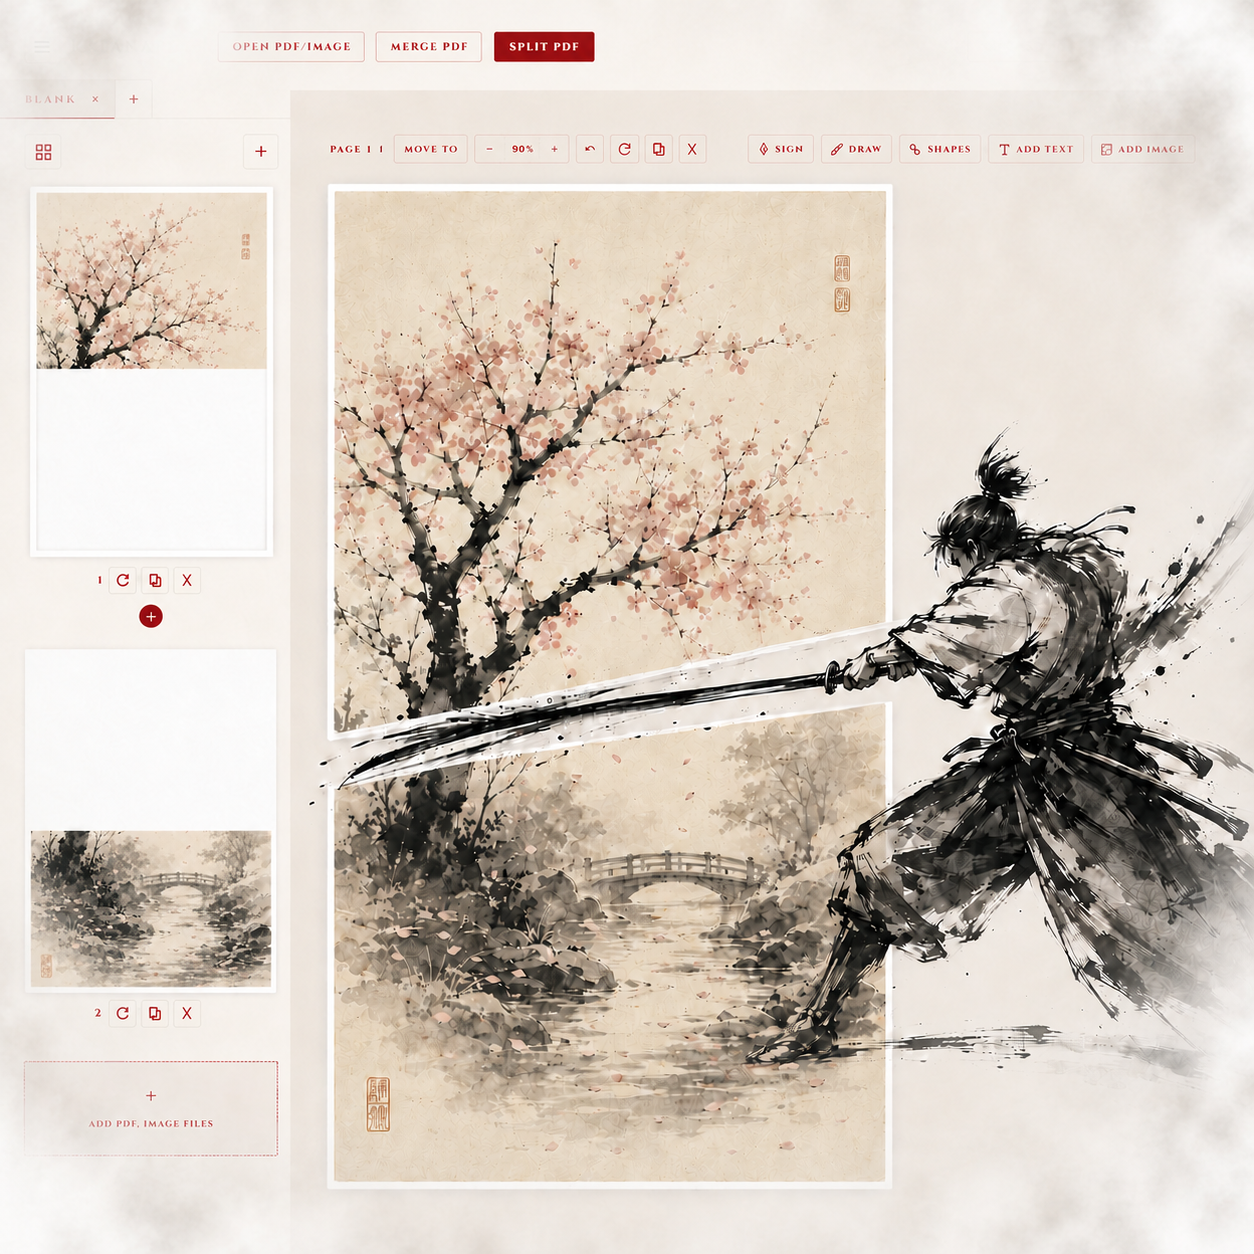
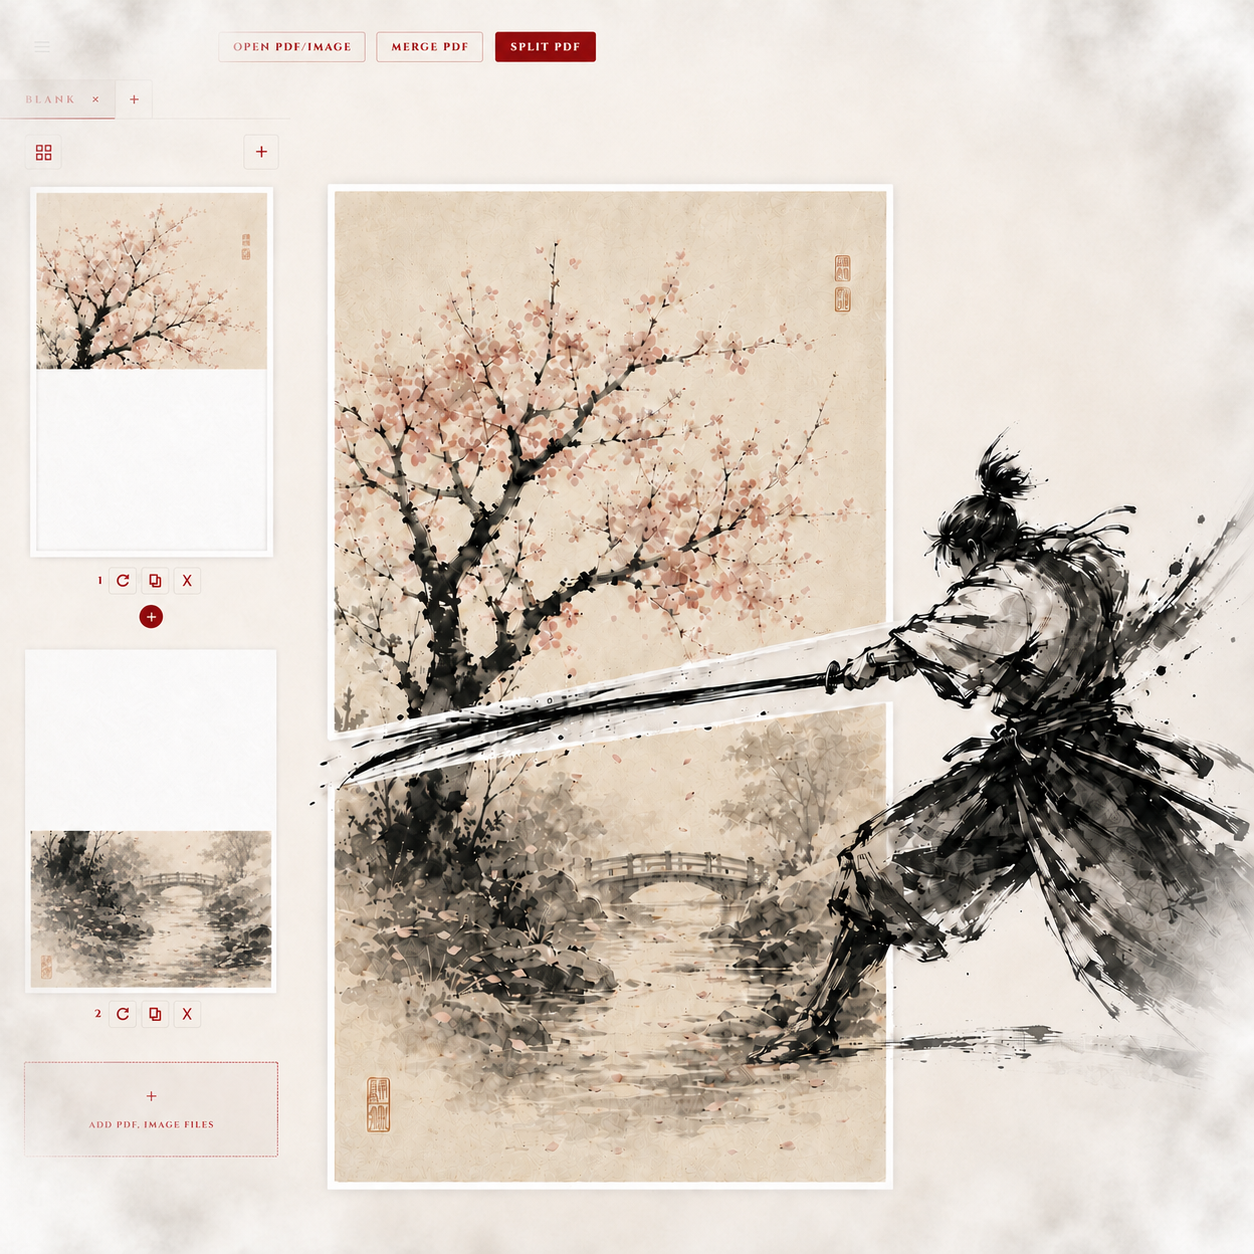
Homepage laptop breakpoint + OCR exits select mode
- Add 14-inch laptop breakpoint (961–1500px, max-height 900px) with balanced column widths and centered artwork
- Soften existing short-screen 840px rule to be less aggressive
- Fix: activating OCR now clears select mode and area selection

diff --git a/src/components/Homepage.jsx b/src/components/Homepage.jsx
@@ -294,18 +294,37 @@ export default function Homepage({ onFile, onDropFile, onCreateBlank }) {
           box-shadow: 0 14px 32px rgba(40,24,8,0.12);
         }
 
+        /* Desktop laptop: 14-inch screens with browser chrome/taskbar */
+        @media (min-width: 961px) and (max-width: 1500px) and (max-height: 900px) {
+          .hp-hero {
+            padding: clamp(10px, 2vh, 22px) clamp(28px, 4vw, 52px) clamp(6px, 1vh, 12px);
+            min-height: 0;
+          }
+          .hp-stage {
+            max-width: min(1180px, calc(100vw - 72px));
+            grid-template-columns: minmax(320px, 370px) minmax(560px, 1fr);
+            column-gap: clamp(16px, 2vw, 34px);
+            align-items: center;
+          }
+          .hp-copy { padding-top: 0; }
+          .hp-h1 { font-size: clamp(34px, 3.3vw, 48px); line-height: 1.04; margin-bottom: 12px; }
+          .hp-sub { font-size: 14px; line-height: 1.55; margin-bottom: 18px; }
+          .hp-art { justify-content: center; align-items: center; }
+          .hp-art img { width: clamp(560px, 54vw, 760px); max-height: calc(100dvh - 150px); }
+        }
+
         /* ── Short-screen: compact layout so list fits without scrolling ── */
         @media (max-height: 840px) and (min-width: 961px) {
-          .hp-hero { padding: clamp(8px,1.5vh,16px) clamp(20px,3vw,48px) clamp(4px,1vh,10px); }
+          .hp-hero { padding: clamp(8px,1.5vh,14px) clamp(20px,3vw,48px) clamp(4px,1vh,8px); min-height: 0; }
           .hp-eyebrow { margin-bottom: 8px; }
-          .hp-h1 { font-size: clamp(22px, 2.6vw, 40px); margin: 0 0 10px; line-height: 1.04; }
-          .hp-sub { margin: 0 0 14px; font-size: 13px; }
+          .hp-h1 { font-size: clamp(26px, 2.8vw, 44px); margin: 0 0 10px; line-height: 1.04; }
+          .hp-sub { margin: 0 0 14px; font-size: 13.5px; }
           .hp-actions { margin-bottom: 8px; gap: 8px; }
-          .hp-btn-primary, .hp-btn-secondary { height: 36px; }
-          .hp-note { font-size: 11px; }
+          .hp-btn-primary, .hp-btn-secondary { height: 38px; }
+          .hp-note { font-size: 12px; }
           .hp-what { margin-top: 8px; }
-          .hp-what-item { padding: 5px 12px; }
-          .hp-art img { max-height: min(78vh, 700px); }
+          .hp-what-item { padding: 6px 12px; }
+          .hp-art img { max-height: min(80vh, 720px); }
         }
 
         /* ── Short-screen (720p) ─────────────────────── */

diff --git a/src/components/PDFEditor/PDFEditor.jsx b/src/components/PDFEditor/PDFEditor.jsx
@@ -428,6 +428,8 @@ export default function PDFEditor() {
   }
 
   async function handleActivateOCR() {
+    setSelectMode(false);
+    setAreaSelection(null);
     const { pages: livePages, deletedPages: liveDel, pageOrder: liveOrder } = liveStateRef.current;
     const activePages = liveOrder
       .map(i => livePages[i])